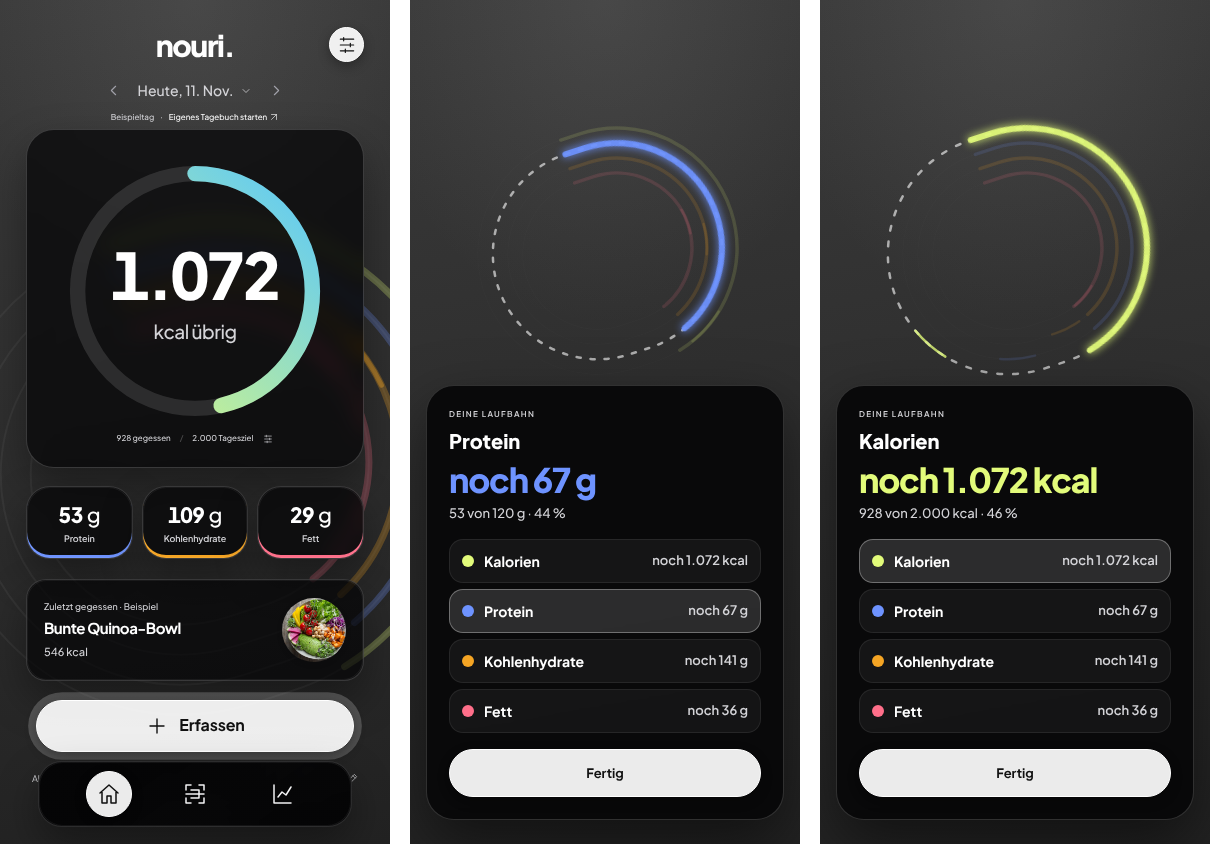
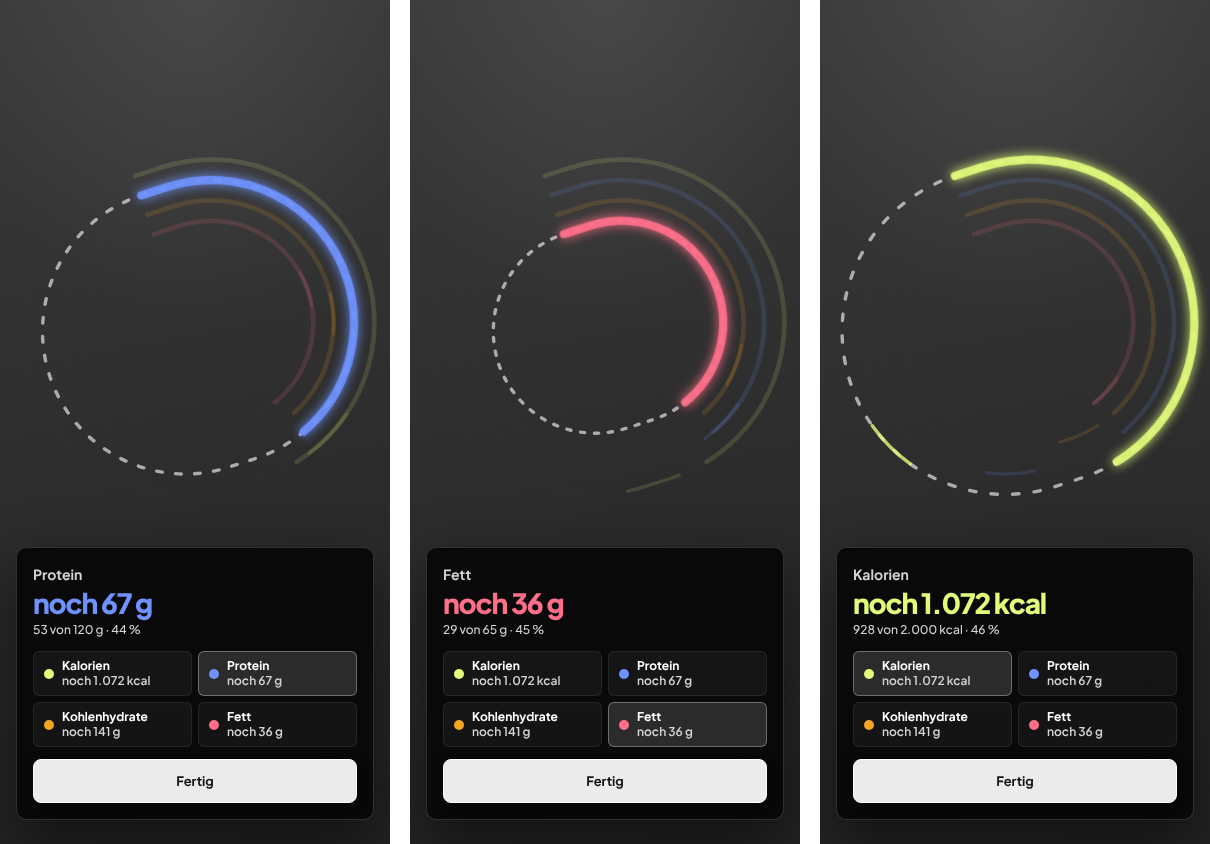
Fokus-Karte kompakter und rechteckig, Laufbahn größer
Claude-Session: https://claude.ai/code/session_0162wcJoWWh3DLszW2Hd6XaN

diff --git a/web/theme.css b/web/theme.css
@@ -259,3 +259,17 @@ body.track-focusing .theme-track{transform:translateY(2vh) scale(.5)}
 body.track-focusing .lane-base.is-focus{stroke-width:5}
 body.track-focusing .lane-fill.is-focus{stroke-width:12}
 @media (prefers-reduced-motion:reduce){.theme-track{transition:none}}
+
+/* Kompakte, rechteckige Fokus-Karte, damit mehr Laufbahn zu sehen ist */
+.track-focus-card{width:min(400px,100%);border-radius:10px;padding:16px}
+.track-focus-card .eyebrow{display:none}
+.track-focus-card h2{font-size:14px;margin-top:0;color:var(--muted);font-weight:700}
+.track-focus-value{font-size:28px;margin-top:2px}
+.track-focus-card>p{font-size:12px;margin-top:2px}
+.track-legend{grid-template-columns:repeat(2,minmax(0,1fr));gap:6px;margin:12px 0}
+.track-legend-row{grid-template-columns:10px 1fr;grid-template-rows:auto auto;column-gap:8px;row-gap:0;padding:7px 10px;border-radius:6px;min-height:44px}
+.track-legend-row .track-dot{grid-row:span 2;width:10px;height:10px}
+.track-legend-row span:nth-child(2){font-size:12px;line-height:1.2}
+.track-legend-row span:last-child{font-size:12px;line-height:1.2}
+.track-focus .button.primary{border-radius:8px;min-height:44px;padding-top:10px;padding-bottom:10px}
+body.track-focusing .theme-track{transform:translateY(1vh) scale(.68)}

diff --git a/docs/design/README.md b/docs/design/README.md
@@ -8,7 +8,7 @@ Nouri nutzt das Glas-Design „A2 · Schwarzes Glas“:
 - Kacheln auf Startseite und im Tagebuch dunkel und leicht durchsichtig (70 % Schwarz mit Weichzeichner), die Laufbahn scheint durch
 - Icons und Hauptaktionen (Erfassen, aktiver Tab, Einstellungen) in weißem Glas
 - Farbakzente: Kalorienring Limette → Himmelblau, Makros Blau / Orange / Koralle
-- Laufbahn-Fokus: Ein Tipp auf eine Makro-Kachel oder den Kalorienring holt die Bahnen nach vorne. Die Inhalte treten zurück, die ganze Runde erscheint verkleinert, die gewählte Bahn leuchtet, das fehlende Stück ist gepunktet. Eine Karte zeigt „noch X g“, „gegessen von Ziel · %“ und alle vier Ziele zum Umschalten. Schließen mit „Fertig“, Escape oder Tipp daneben.
+- Laufbahn-Fokus: Ein Tipp auf eine Makro-Kachel oder den Kalorienring holt die Bahnen nach vorne. Die Inhalte treten zurück, die ganze Runde erscheint verkleinert, die gewählte Bahn leuchtet, das fehlende Stück ist gepunktet. Eine kompakte, rechteckige Karte zeigt „noch X g“, „gegessen von Ziel · %“ und alle vier Ziele (2 × 2) zum Umschalten. Schließen mit „Fertig“, Escape oder Tipp daneben.
 - Tagebuch nach Mahlzeiten gegliedert: Frühstück, Mittagessen, Abendessen, Snack – je mit Kalorien-Summe und Plus-Knopf, der das Formular mit der passenden Kategorie öffnet
 - Schrift: Plus Jakarta Sans (lokal ausgeliefert), Zahlen und Überschriften kräftig (800) und eng gesetzt
 - Kacheln: große Karten 28 px Rundung, kleine 20 px, feiner heller Rand, tiefer Schatten
